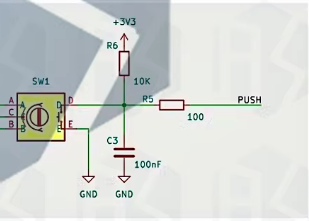
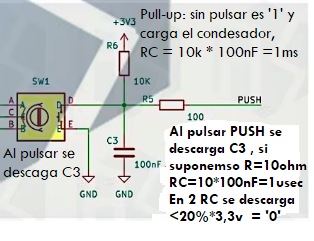
rebotes

diff --git a/README.md b/README.md
@@ -40,7 +40,7 @@ Llegaremos a estudiar las librerías de display con GUI, pero en una clase poste
   
   - Estudio del display + escribir programas básicos de test (BHWT)
   
-  - Estudio de RE
+  - Estudio de Rotary Encoder (RE)
   
   - Check de Pulsadores
   
@@ -401,15 +401,25 @@ El programa font to py es capaz de convertir fuentes residiendo en el sistema op
 
 ------
 
-## Avanzado - Circuitos RC para evitar rebotes
+## Avanzado - Circuitos RC para evitar rebotes en pulsadores
 
-![](./push.png)
+### Circuito usado
 
-https://www.eejournal.com/article/ultimate-guide-to-switch-debounce-part-2/
+Este es el circuito usado en los 3 pulsadores que tiene el display:
 
-Una vez la alimentación estabilizada, el voltaje del condensador esta en 3,3volt . Una vez se pulsa el pulsador se activa el RC de bajada es = 100 ohm * 100nF = 10 us =>> a los 10usec el voltaje en condensador baja al 37% de Vcc = 1,21 que no es aun un '0' --> check
+NO CONSIDERAR la resistencia de 100ohm no cuenta, es solo una protección para las entradas del uC, que limita la corriente.
 
-Según el articulo los picos son de 1.5us de media y con máximo de 6.6 us, por los que los filtraría 
+**El circuito anti-rebotes No es el ideal, pero funciona en la bajada.**
+
+Según el articulo del tutorial los picos son de 1.5us de media y con máximo de 6.6 us, por lo que los 'alisaria' razonablemente, porque el circuito de carga tiene un RC 1000 veces mayor, y no daría tiempo a cargarse antes de la siguiente puesta a tierra, en el siguiente pico
+
+<img src="./push.png" title="" alt="" width="431">
+
+Tutorial base
+
+[ultimate-guide-to-switch-debounce](https://www.eejournal.com/article/ultimate-guide-to-switch-debounce-part-3/)
+
+![](C:\Users\josec\OneDrive\Documentos\GitHub\2425CL10_DisplayGrafSH1106\constantes-tiempo.png)
 
 ## Preguntas sobre la Clase 9 - 10 minutos
 
